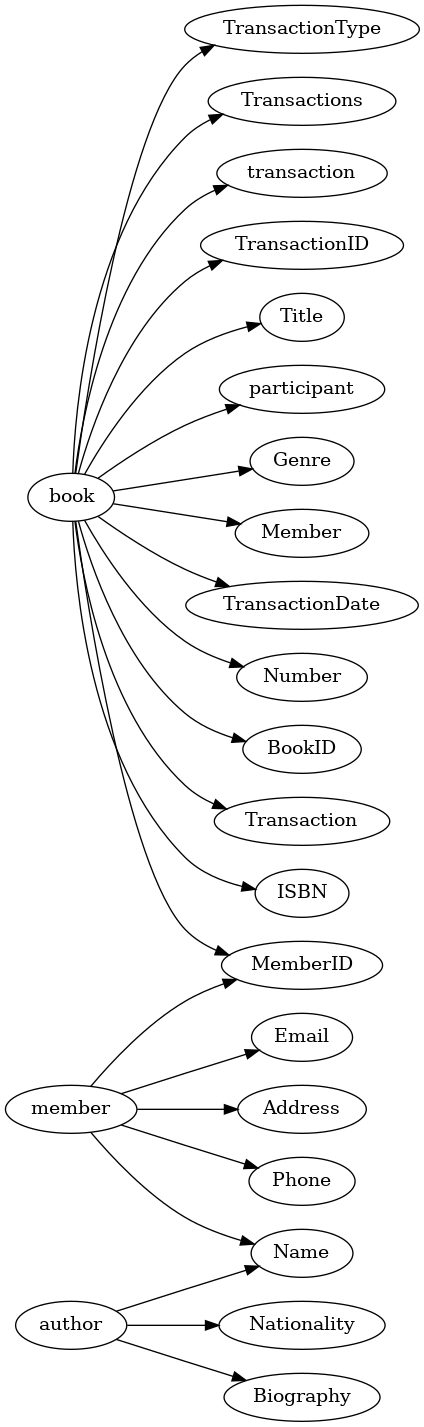
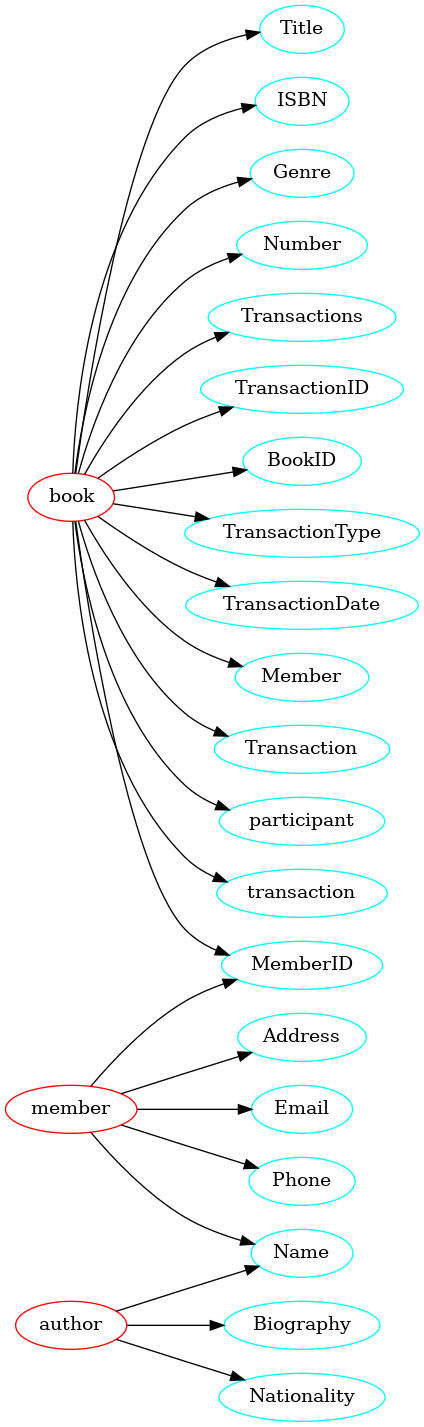
add color node

diff --git a/preprocessing.py b/preprocessing.py
@@ -104,8 +104,14 @@ def generate_erd(final_relation):
         entities.add(item['tail'])
 
     # Add entities and attributes to the graph
-    for entity in entities:
-        dot.node(entity)
+    node_colors = {}  # Dictionary to store node colors
+    for item in final_relation:
+        if item['type'] == 'relation with':
+            dot.node(item['head'], color=node_colors.get(item['head'], 'red'))  # Set node color
+            dot.node(item['tail'], color=node_colors.get(item['tail'], 'cyan'))  # Set node color
+        else:    
+            dot.node(item['head'], color=node_colors.get(item['head'], 'red'))  # Set node color
+            dot.node(item['tail'], color=node_colors.get(item['tail'], 'cyan'))  # Set node color
 
     for item in final_relation:
         dot.edge(item['head'], item['tail'])
